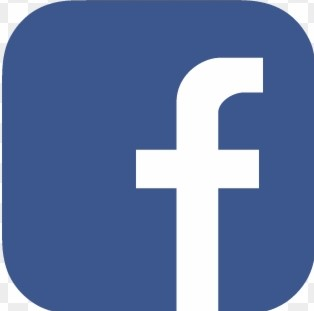
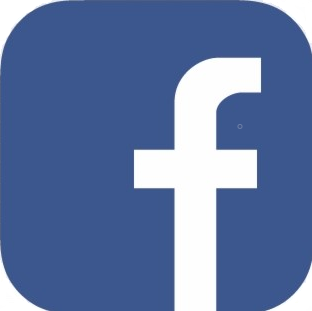
one

diff --git a/φ/templates/φ/index.html b/φ/templates/φ/index.html
@@ -2196,34 +2196,34 @@
                         </tbody>
                     </table>
                 </span>
-                <span class="share" style="display: none; padding: 20%"
+                <span class="share" style="display: none; padding: 10%"
                 id="Share${contents.tradingSymbol}">
                     <button style="width:25%; letter-spacing: 2px; font-weight: lighter">
-                        <img src="/static/φ/img/facebook.png" style="heigth:25%; width:25%; border-radius: 15px; background-color: white;">
+                        <img src="/static/φ/img/facebook.png" style="heigth:45%; width:45%; border-radius: 15px; background-color: white;">
                     </button>
                     <button style="width:25%; letter-spacing: 2px; font-weight: lighter">
-                        <img src="/static/φ/img/messenger.png" style="heigth:25%; width:25%; border-radius: 15px; background-color: white;">
+                        <img src="/static/φ/img/messenger.png" style="heigth:45%; width:45%; border-radius: 15px; background-color: white;">
                     </button>
                     <button style="width:25%; letter-spacing: 2px; font-weight: lighter">
-                        <img src="/static/φ/img/twitter.png" style="heigth:25%; width:25%; border-radius: 15px; background-color: white;">
+                        <img src="/static/φ/img/twitter.png" style="heigth:45%; width:45%; border-radius: 15px; background-color: white;">
                     </button>
                     <button style="width:25%; letter-spacing: 2px; font-weight: lighter">
-                        <img src="/static/φ/img/linkedin.png" style="heigth:25%; width:25%; border-radius: 15px; background-color: white;">
+                        <img src="/static/φ/img/linkedin.png" style="heigth:45%; width:45%; border-radius: 15px; background-color: white;">
                     </button>
                     <button style="width:25%; letter-spacing: 2px; font-weight: lighter">
-                        <img src="/static/φ/img/reddit.png" style="heigth:25%; width:25%; border-radius: 15px; background-color: white;">
+                        <img src="/static/φ/img/reddit.png" style="heigth:45%; width:45%; border-radius: 15px; background-color: white;">
                     </button>
                     <button style="width:25%; letter-spacing: 2px; font-weight: lighter">
-                        <img src="/static/φ/img/instagram.png" style="heigth:25%; width:25%; border-radius: 15px; background-color: white;">
+                        <img src="/static/φ/img/instagram.png" style="heigth:45%; width:45%; border-radius: 15px; background-color: white;">
                     </button>
                     <button style="width:25%; letter-spacing: 2px; font-weight: lighter">
-                        <img src="/static/φ/img/messages.png" style="heigth:25%; width:25%; border-radius: 15px; background-color: white;">
+                        <img src="/static/φ/img/messages.png" style="heigth:45%; width:45%; border-radius: 15px; background-color: white;">
                     </button>
                     <button style="width:25%; letter-spacing: 2px; font-weight: lighter">
-                        <img src="/static/φ/img/email.png" style="heigth:25%; width:25%; border-radius: 15px; background-color: white;">
+                        <img src="/static/φ/img/email.png" style="heigth:45%; width:45%; border-radius: 15px; background-color: white;">
                     </button>
                     <button style="width:25%; letter-spacing: 2px; font-weight: lighter">
-                        <img src="/static/φ/img/copylink.jpg" style="heigth:25%; width:25%; border-radius: 15px; background-color: white;">
+                        <img src="/static/φ/img/copylink.jpg" style="heigth:45%; width:45%; border-radius: 15px; background-color: white;">
                     </button>
                 </span>
                 <table>
